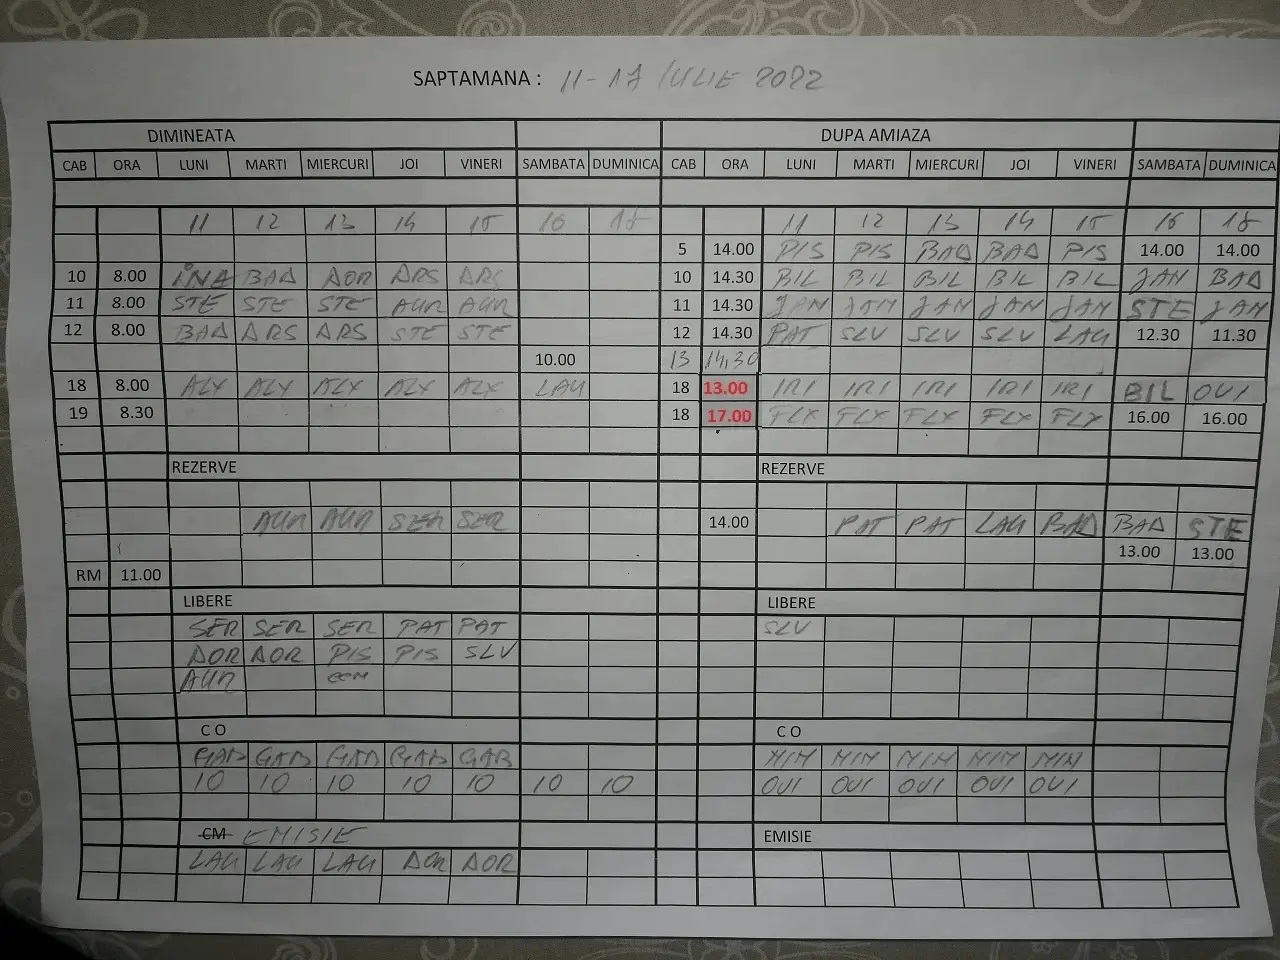
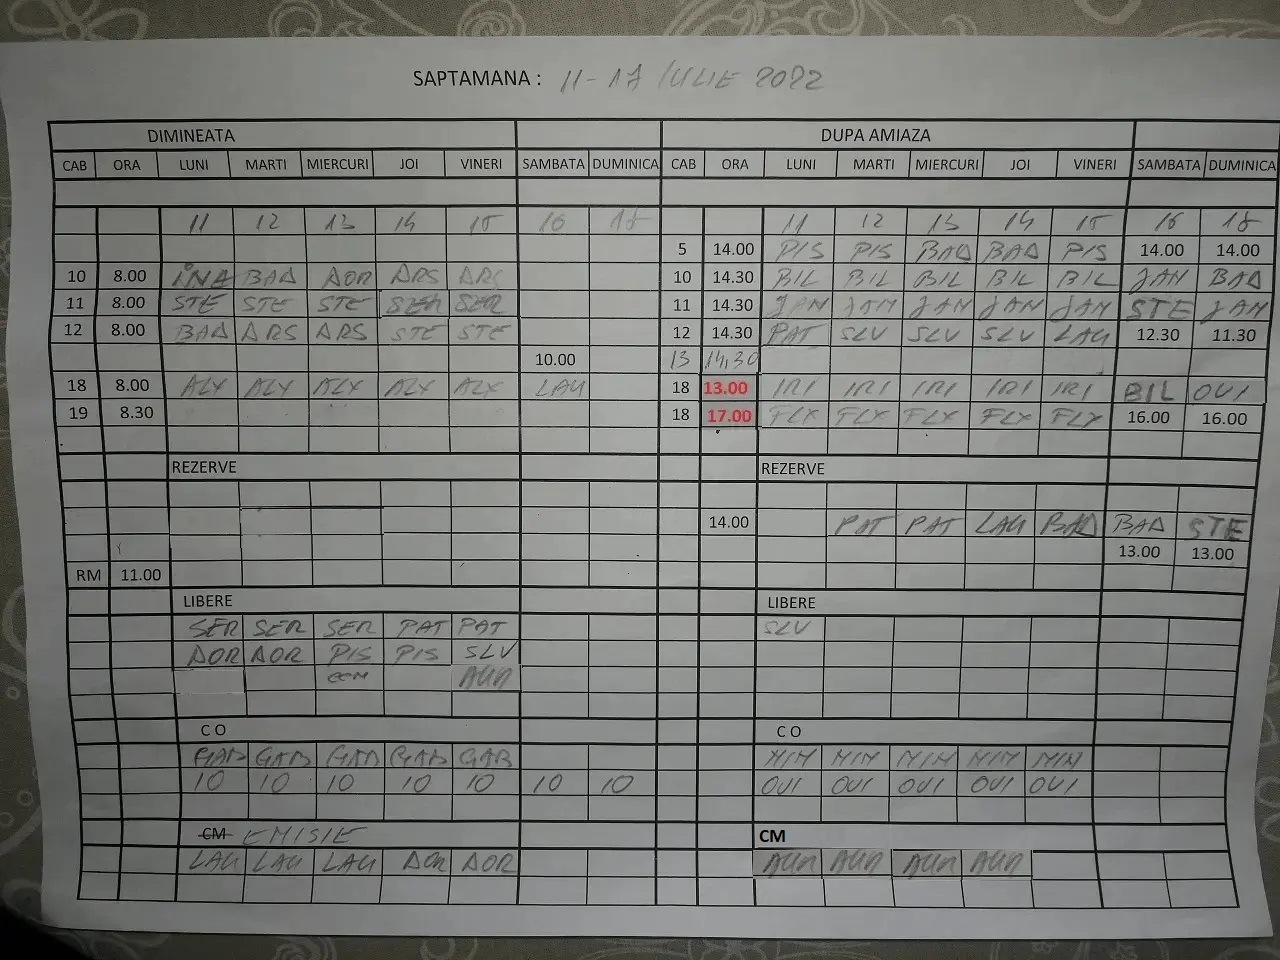
"medical aura"

diff --git a/index.html b/index.html
@@ -30,11 +30,13 @@
     <!-- <img src="foto/27-3-Iulie.webp" alt="27-3 Iulie"><br><br> -->
     <!-- <img src="foto/4-10_iulie.webp" alt="4-10 Iulie" /><br /><br /> -->
     <img src="foto/11-17_iulie.jpg" alt="11-17 Iulie" /><br /><br />
-    <img src="foto/18-24_iulie.webp" alt="18-24 Iulie" /><br /><br />
+    <img src="foto/18-24_iulie.jpg" alt="18-24 Iulie" /><br /><br />
     <img src="foto/25-31_iulie.jpg" alt="25-31 Iulie" /><br /><br />
 
     <script>
-      alert("schimb patra ovidiu 17 -31");
+      alert(
+        "Aura medical 11-14, 15 libera, pe 19 in 10 dimineata. Pe 19 Gabi rezerva dimineata. Pe 14 si 15 Cornelia in 11 dimineata"
+      );
     </script>
   </body>
 </html>
